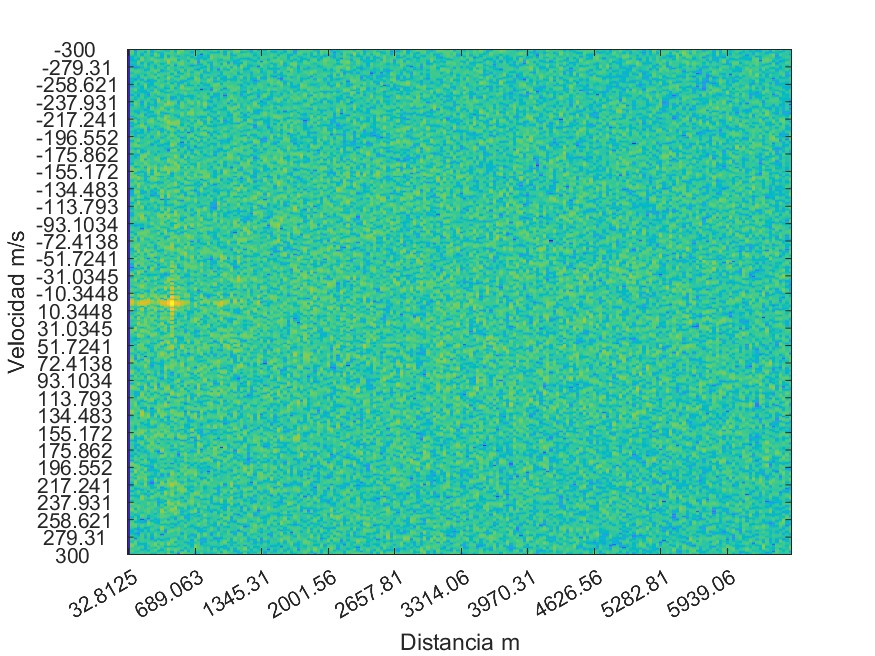
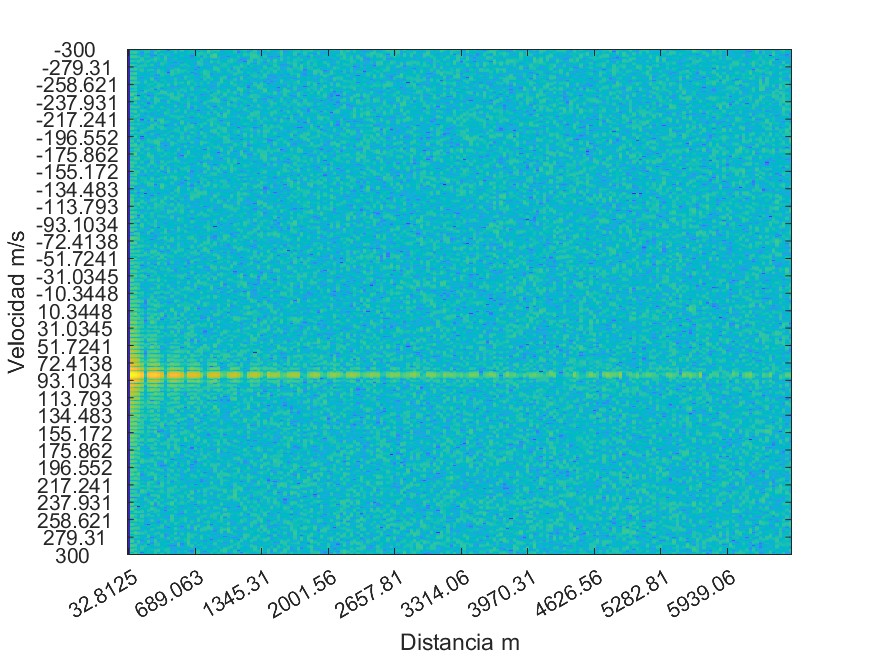
updates

diff --git a/Tests/TestBatchFunction.m b/Tests/TestBatchFunction.m
@@ -25,13 +25,15 @@ samples = data_resampled;
 %samples = samples(end-int64(Samples_iteration)+1:end);
 n = 0:1:length(samples)-1;
 n = n';
-shift = 80; % In hertz
+shift = -200; % In hertz
 shift = shift/Fs_used;
 
 %% Samples are shifted on frequency 
+delay_filter1 = zeros(5,1);
+delay_filter1(end) = 1;
 
-
-shifted = samples.*exp(-1i*2*pi*shift*n);
+delayed = filter(delay_filter1,1,samples);
+shifted = delayed.*exp(-1i*2*pi*shift*n);
 % Samples are analyzed
 [correlation_matrix_doppler,~]= BatchProcessing(samples,shifted);
 plotResults(correlation_matrix_doppler)

diff --git a/plotResults.m b/plotResults.m
@@ -23,6 +23,7 @@ function plotResults(correlation_matrix)
     title("CAF representation")
 
     nombreguardar = ['simFigures/' num2str(iteration)];
+    nombreguardar = "shifted";
     guardaFiguraPaper(nombreguardar,f,ax,'-djpeg',0)
     colorData = representation.CData(:,1:200);
     close
